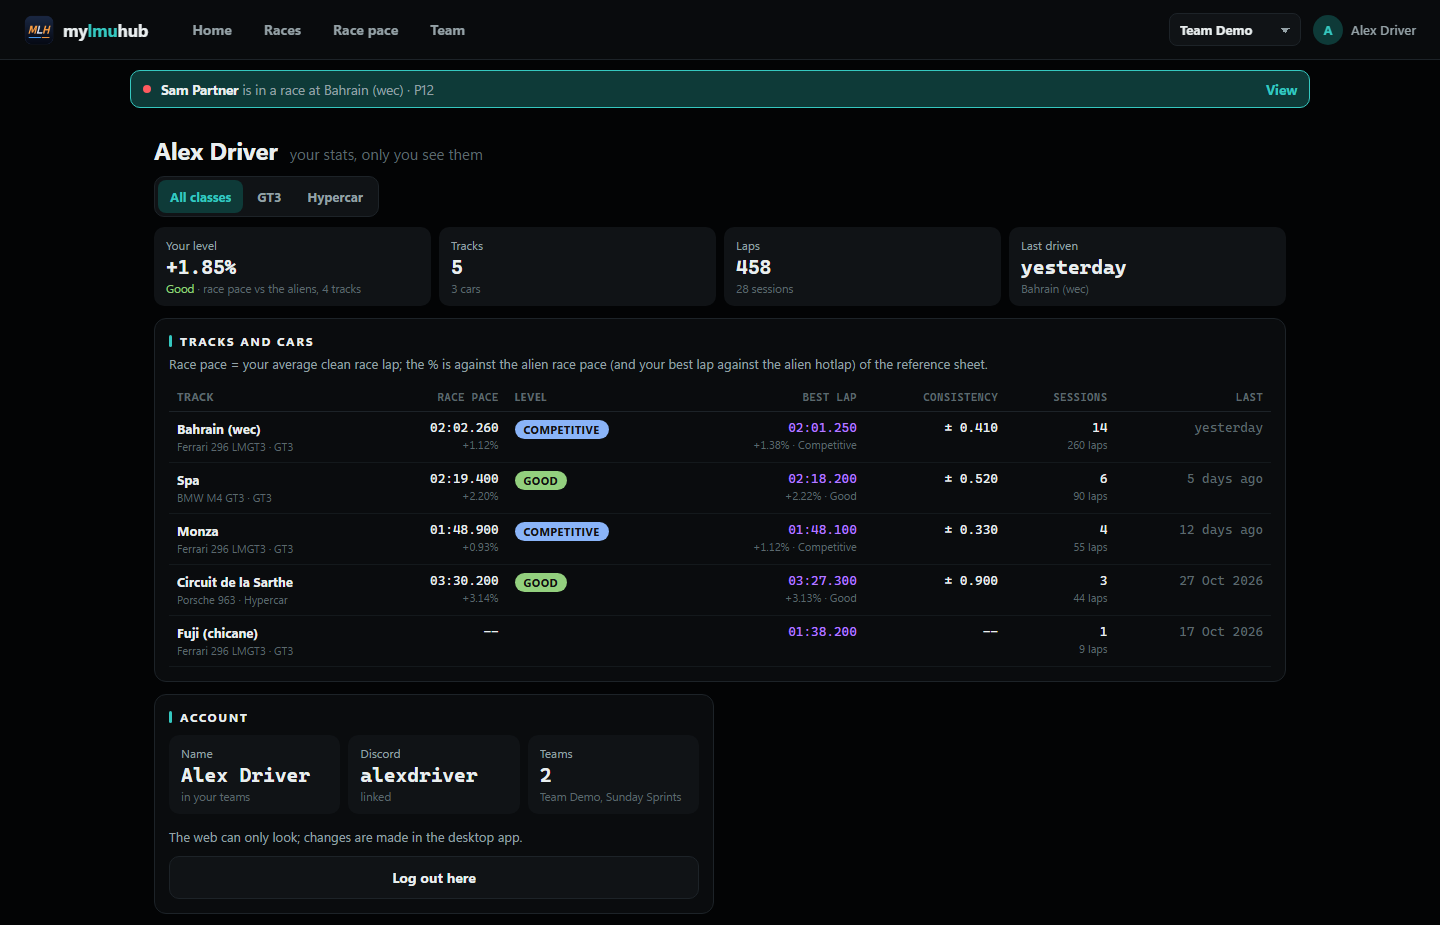
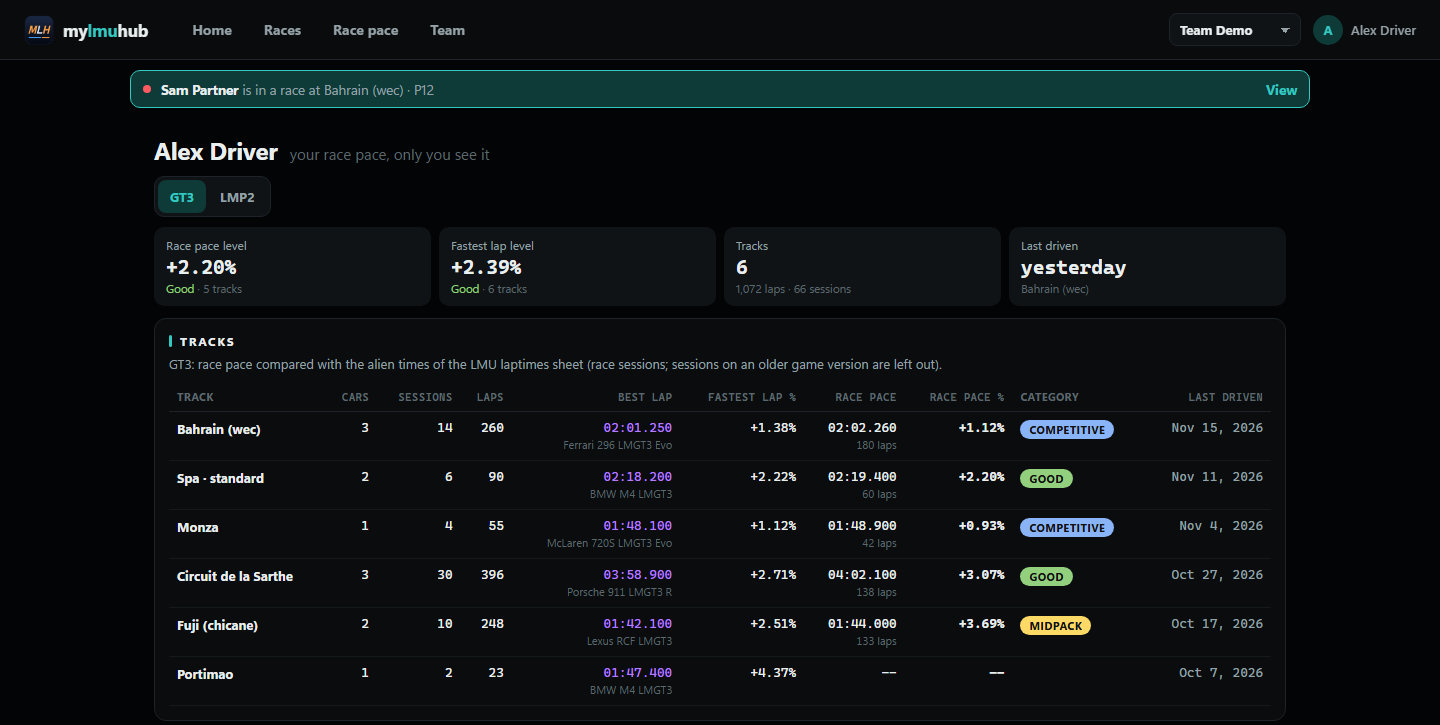
My stats like the desktop Race Pace page: per track and class
- The desktop app sends the Race Pace overview (every layout its own track, per class, race sessions,
  older game versions left out, the car of your fastest lap, how many cars)
- The website's Me page shows it the same way: class buttons, race pace and fastest lap level, one row per track

diff --git a/server/MyLMUHub.Server/wwwroot/js/app.js b/server/MyLMUHub.Server/wwwroot/js/app.js
@@ -274,28 +274,30 @@
     if (!mine) { view.innerHTML = '<div class="faint mt20">Loading...</div>'; get('/api/v1/me/pace').then(function (l) { mine = l || []; account(); }, function (e) { if (e.status === 401) login(); else { mine = []; account(); } }); return; }
     var ratio = function (t, b) { return t > 0 && b > 0 ? t / b : 0; };
     var catChip = function (r) { var k = R.category(r); return k ? '<span class="cat" data-bgc="' + k.color + '">' + esc(k.name) + '</span>' : ''; };
+    // as the desktop app's Race Pace page: one class at a time (the one you drove most first), a row per track; your level = the average % over its tracks
     var count = {}; mine.forEach(function (p) { var c = clsOf(p); count[c] = (count[c] || 0) + p.laps; });
     var classes = Object.keys(count).sort(function (a, b) { return count[b] - count[a]; });
-    if (myCls && !count[myCls]) myCls = '';
-    var rows = mine.filter(function (p) { return !myCls || clsOf(p) === myCls; }).sort(function (a, b) { return b.last - a.last; });
-    var h = '<div class="pagehead"><h1>' + esc(me.name) + '</h1><span class="faint">your stats, only you see them</span></div>';
+    if (!myCls || !count[myCls]) myCls = classes[0] || '';
+    var rows = mine.filter(function (p) { return clsOf(p) === myCls; }).sort(function (a, b) { return b.last - a.last; });
+    var h = '<div class="pagehead"><h1>' + esc(me.name) + '</h1><span class="faint">your race pace, only you see it</span></div>';
     if (!mine.length) h += card('My stats', '<div class="sub">No stats yet. The desktop app sends them by itself (Settings: <b>Keep my stats on the website</b>) the next time a hub page reads your results.</div>');
     else {
-      var lv = rows.map(function (p) { return p.clean >= 5 ? ratio(p.pace, p.refPace) : 0; }).filter(function (x) { return x > 0; }), avg = lv.length ? lv.reduce(function (t, x) { return t + x; }, 0) / lv.length : 0;
-      var tracks = {}, cars = {}, laps = 0, ses = 0; rows.forEach(function (p) { tracks[trackName(p.track)] = 1; cars[p.car] = 1; laps += p.laps; ses += p.sessions || 0; });
-      var k = R.category(avg);
-      h += '<div class="filters">' + segOf([['', 'All classes']].concat(classes.map(function (c) { return [c, clsLabel(c)]; })), myCls, 'data-mc') + '</div>';
-      h += '<div class="tiles tiles4">' + tile('Your level', avg ? F.pctOver(avg) : '--', avg ? '<span data-col="' + k.color + '">' + esc(k.name) + '</span> · race pace vs the aliens, ' + lv.length + (lv.length === 1 ? ' track' : ' tracks') : 'needs a reference + 5 counted laps') +
-        tile('Tracks', Object.keys(tracks).length, Object.keys(cars).length + (Object.keys(cars).length === 1 ? ' car' : ' cars')) + tile('Laps', F.count ? F.count(laps) : laps, ses ? ses + ' sessions' : '') +
-        tile('Last driven', rows.length ? ago(rows[0].last) : '--', rows.length ? esc(trackName(rows[0].track)) : '') + '</div>';
-      h += card('Tracks and cars', '<div class="sub">Race pace = your average clean race lap; the % is against the alien race pace (and your best lap against the alien hotlap) of the reference sheet.</div><div class="scroll"><table class="tbl"><thead><tr><th>Track</th><th class="num">Race pace</th><th>Level</th><th class="num">Best lap</th><th class="num">Consistency</th><th class="num">Sessions</th><th class="num">Last</th></tr></thead><tbody>' +
+      var mean = function (l) { return l.length ? l.reduce(function (t, x) { return t + x; }, 0) / l.length : 0; };
+      var pr = rows.map(function (p) { return p.clean >= 5 ? ratio(p.pace, p.refPace) : 0; }).filter(function (x) { return x > 0; }), hr = rows.map(function (p) { return ratio(p.best, p.refHot); }).filter(function (x) { return x > 0; });
+      var avg = mean(pr), avgQ = mean(hr), k = R.category(avg), q = R.category(avgQ), laps = 0, ses = 0; rows.forEach(function (p) { laps += p.laps; ses += p.sessions || 0; });
+      h += '<div class="filters">' + segOf(classes.map(function (c) { return [c, clsLabel(c)]; }), myCls, 'data-mc') + '</div>';
+      h += '<div class="tiles tiles4">' + tile('Race pace level', avg ? F.pctOver(avg) : '--', k ? '<span data-col="' + k.color + '">' + esc(k.name) + '</span> · ' + pr.length + (pr.length === 1 ? ' track' : ' tracks') : 'needs a reference + 5 counted laps') +
+        tile('Fastest lap level', avgQ ? F.pctOver(avgQ) : '--', q ? '<span data-col="' + q.color + '">' + esc(q.name) + '</span> · ' + hr.length + (hr.length === 1 ? ' track' : ' tracks') : '') +
+        tile('Tracks', rows.length, F.count(laps) + ' laps · ' + ses + ' sessions') +
+        tile('Last driven', rows.length ? ago(rows[0].last) : '--', rows.length ? esc(rows[0].track) : '') + '</div>';
+      h += card('Tracks', '<div class="sub">' + esc(clsLabel(myCls)) + ': race pace compared with the alien times of the LMU laptimes sheet (race sessions; sessions on an older game version are left out).</div>' +
+        '<div class="scroll"><table class="tbl"><thead><tr><th>Track</th><th class="num">Cars</th><th class="num">Sessions</th><th class="num">Laps</th><th class="num">Best lap</th><th class="num">Fastest lap %</th><th class="num">Race pace</th><th class="num">Race pace %</th><th>Category</th><th class="num">Last driven</th></tr></thead><tbody>' +
         rows.map(function (p) {
-          var pr = p.clean >= 5 ? ratio(p.pace, p.refPace) : 0, hr = ratio(p.best, p.refHot);
-          return '<tr><td><b>' + esc(trackName(p.track)) + '</b><span class="two">' + esc(p.car) + ' · ' + esc(clsLabel(clsOf(p))) + '</span></td>' +
-            '<td class="num">' + lap(p.pace) + '<span class="two">' + (pr ? F.pctOver(pr) : p.pace > 0 && !p.refPace ? 'no reference' : p.pace > 0 ? p.clean + ' counted laps' : '') + '</span></td>' +
-            '<td>' + catChip(pr) + '</td>' +
-            '<td class="num purple">' + lap(p.best) + '<span class="two">' + (hr ? F.pctOver(hr) + ' · ' + esc(R.category(hr).name) : '') + '</span></td>' +
-            '<td class="num">' + (p.sd > 0 ? '± ' + p.sd.toFixed(3) : '--') + '</td><td class="num">' + (p.sessions || '--') + '<span class="two">' + p.laps + ' laps</span></td><td class="num faint">' + esc(ago(p.last)) + '</td></tr>';
+          var r1 = p.clean >= 5 ? ratio(p.pace, p.refPace) : 0, r2 = ratio(p.best, p.refHot);
+          return '<tr><td><b>' + esc(p.track) + '</b>' + (p.refPace || p.refHot ? '' : '<span class="two">not in the sheet</span>') + '</td><td class="num">' + (p.cars || 1) + '</td><td class="num">' + (p.sessions || '--') + '</td><td class="num">' + F.count(p.laps) + '</td>' +
+            '<td class="num purple">' + lap(p.best) + '<span class="two">' + esc(p.car) + '</span></td><td class="num">' + (r2 ? F.pctOver(r2) : '--') + '</td>' +
+            '<td class="num">' + lap(p.pace) + '<span class="two">' + (p.clean ? p.clean + ' laps' : '') + '</span></td><td class="num"><b>' + (r1 ? F.pctOver(r1) : '--') + '</b></td>' +
+            '<td>' + catChip(r1) + '</td><td class="num muted">' + esc(F.day(p.last)) + '</td></tr>';
         }).join('') + '</tbody></table></div>');
     }
     h += '<div class="cols">' + card('Account', '<div class="tiles">' + tile('Name', esc(me.name), 'in your teams') + tile('Discord', me.discord ? esc(me.discord) : '--', me.discord ? 'linked' : 'link it in the desktop app') +

diff --git a/src/MyLMUHub.App/wwwroot/js/hub.js b/src/MyLMUHub.App/wwwroot/js/hub.js
@@ -123,8 +123,9 @@
     }, function (e) { done({ error: String(e), sessions: [], names: [], candidates: [] }); });
   }
 
-  // My stats on the website (2026-11-16): your own race pace sheet, per track + car (as the Team tab shares it) with the alien race pace and hotlap of that track
-  // + class (the reference sheet) and how many sessions; sent to the team server only when it changed (Settings: on by default; only you see it there).
+  // My stats on the website (2026-11-16): the Race Pace page's overview (pace.js, its default view: race sessions, all time, current game version), one row
+  // per track (every layout its own track) and class, with the alien race pace and hotlap of the reference sheet; the car = your fastest car there.
+  // Sent to the team server only when it changed (Settings: on by default; only you see it there).
   // Not while a guest drives (the pages then show his files). Pages without the pace maths (pace-ref.js, pace-math.js) send nothing.
   var mineBusy = false;
   function shareMine(data) {
@@ -135,14 +136,24 @@
       if (a[0] && a[0].current) return;
       var ref = a[1] && a[1].csv ? R.parse(a[1].csv) : {};
       var refFor = function (s, cls) { var t = ref[R.trackName(s.track, s.layout)], c = R.className(cls); return t && c ? t[c] || null : null; };
-      var list = data.sessions.filter(function (s) { return !s.live; }), cur = null;
-      list.forEach(function (s) { var m = R.major(s.version); if (m && (!cur || m > cur)) cur = m; });
-      var old = function (s) { var rf = refFor(s, s['class']); return R.isOld(s.version, rf && rf.patch, cur); };
-      var rows = M.groups(list).slice(0, 400).map(function (g) {
-        var now = g.sessions.filter(function (s) { return !old(s); }), c = M.combine(now.length ? now : g.sessions, 0.05, ['Race']).dry, rf = refFor(g.sessions[0], g.cls);
-        return { track: g.track, car: g.car, cls: g.cls || '', best: c.best || 0, optimal: c.optimal || 0, pace: c.clean >= 3 ? c.pace : 0, sd: c.clean >= 3 && c.sd > 0 ? c.sd : 0, clean: c.clean || 0, laps: c.laps || 0,
-                 last: g.last, refPace: rf && rf.race && rf.race[0] > 0 ? rf.race[0] : 0, refHot: rf && rf.hot > 0 ? rf.hot : 0, sessions: g.sessions.length };
-      }).filter(function (r) { return r.track && r.car && r.laps > 0 && r.last > 1400000000; });
+      var all = data.sessions, cur = null;
+      all.forEach(function (s) { var m = R.major(s.version); if (m && (!cur || m > cur)) cur = m; });
+      var list = all.filter(function (s) { var rf = refFor(s, s['class']); return !R.isOld(s.version, rf && rf.patch, cur); });
+      var by = function (l, kf) { var m = {}, out = []; l.forEach(function (s) { var k = kf(s); if (!m[k]) { m[k] = { key: k, sessions: [], last: 0, laps: 0 }; out.push(m[k]); } m[k].sessions.push(s); m[k].last = Math.max(m[k].last, s.time); m[k].laps += s.laps.length; }); return out; };
+      var tracks = by(list, function (s) { return R.trackKey(s.track, s.layout); }), per = {};
+      tracks.forEach(function (t) { var s0 = t.sessions[t.sessions.length - 1]; t.base = R.trackName(s0.track, s0.layout) || s0.track; t.layout = s0.layout; per[t.base] = (per[t.base] || 0) + 1; });
+      var rows = [];
+      tracks.forEach(function (t) {
+        var name = per[t.base] > 1 && t.layout ? t.base + ' · ' + R.variantLabel(t.base, t.layout) : t.base;
+        by(t.sessions, function (s) { return s['class']; }).forEach(function (c) {
+          var d = M.combine(c.sessions, 0.05, ['Race']).dry, rf = refFor(c.sessions[0], c.key), bc = null;
+          by(c.sessions, function (s) { return s.car; }).forEach(function (k) { k.best = M.combine(k.sessions, 0.05, ['Race']).dry.best; if (k.best && (!bc || k.best < bc.best)) bc = k; });
+          var nc = {}; c.sessions.forEach(function (s) { nc[s.car] = 1; });
+          rows.push({ track: name.slice(0, 80), car: (bc ? bc.key : c.sessions[0].car || '?').slice(0, 80), cls: c.key || '', best: d.best || 0, optimal: d.optimal || 0, pace: d.pace || 0, sd: d.sd > 0 ? d.sd : 0,
+                      clean: d.clean || 0, laps: c.laps, last: c.last, refPace: rf && rf.race && rf.race[0] > 0 ? rf.race[0] : 0, refHot: rf && rf.hot > 0 ? rf.hot : 0, sessions: c.sessions.length, cars: Object.keys(nc).length });
+        });
+      });
+      rows = rows.filter(function (r) { return r.track && r.car && r.laps > 0 && r.last > 1400000000; }).sort(function (a, b) { return b.last - a.last; }).slice(0, 400);
       var sig = JSON.stringify(rows), h = sig.length + ':' + sig.slice(-300), old2 = null;
       try { old2 = localStorage.getItem('pw-my-pace'); } catch (e) {}
       if (old2 === h) return;

diff --git a/server/MyLMUHub.Server/Store.cs b/server/MyLMUHub.Server/Store.cs
@@ -38,6 +38,7 @@ public sealed partial class Store
         // added later (2026-11-16): every lap of a race (kept apart: the list of results stays small), consistency per pace row
         if (Convert.ToInt64(Scalar(c, "SELECT COUNT(*) FROM pragma_table_info('results') WHERE name = 'laps'")) == 0) Exec(c, "ALTER TABLE results ADD COLUMN laps TEXT");
         if (Convert.ToInt64(Scalar(c, "SELECT COUNT(*) FROM pragma_table_info('pace') WHERE name = 'sd'")) == 0) Exec(c, "ALTER TABLE pace ADD COLUMN sd REAL");
+        if (Convert.ToInt64(Scalar(c, "SELECT COUNT(*) FROM pragma_table_info('my_pace') WHERE name = 'cars'")) == 0) Exec(c, "ALTER TABLE my_pace ADD COLUMN cars INTEGER NOT NULL DEFAULT 0");
         WebSchema(c);                                                                         // the website: phone logins, pairing codes, Discord (Store.Web.cs)
     }
 
@@ -179,18 +180,18 @@ public sealed partial class Store
         using var c = Open(); using var tx = c.BeginTransaction();
         Exec(c, "DELETE FROM my_pace WHERE user_id = $u", ("$u", user));
         foreach (var r in rows)
-            Exec(c, "INSERT OR REPLACE INTO my_pace (user_id, track, car, cls, best, optimal, pace, sd, clean, laps, last, ref_pace, ref_hot, sessions) VALUES ($u, $tr, $car, $cls, $b, $o, $p, $sd, $cl, $l, $last, $rp, $rh, $n)",
+            Exec(c, "INSERT OR REPLACE INTO my_pace (user_id, track, car, cls, best, optimal, pace, sd, clean, laps, last, ref_pace, ref_hot, sessions, cars) VALUES ($u, $tr, $car, $cls, $b, $o, $p, $sd, $cl, $l, $last, $rp, $rh, $n, $cars)",
                 ("$u", user), ("$tr", r.Track), ("$car", r.Car), ("$cls", r.Cls), ("$b", r.Best > 0 ? r.Best : null), ("$o", r.Optimal > 0 ? r.Optimal : null), ("$p", r.Pace > 0 ? r.Pace : null),
-                ("$sd", r.Sd > 0 ? r.Sd : null), ("$cl", r.Clean), ("$l", r.Laps), ("$last", r.Last), ("$rp", r.RefPace > 0 ? r.RefPace : null), ("$rh", r.RefHot > 0 ? r.RefHot : null), ("$n", r.Sessions));
+                ("$sd", r.Sd > 0 ? r.Sd : null), ("$cl", r.Clean), ("$l", r.Laps), ("$last", r.Last), ("$rp", r.RefPace > 0 ? r.RefPace : null), ("$rh", r.RefHot > 0 ? r.RefHot : null), ("$n", r.Sessions), ("$cars", r.Cars));
         tx.Commit();
     }
     public List<PaceRow> MyPace(long user)
     {
-        using var c = Open(); using var cmd = Cmd(c, "SELECT track, car, cls, best, optimal, pace, sd, clean, laps, last, ref_pace, ref_hot, sessions FROM my_pace WHERE user_id = $u ORDER BY last DESC", ("$u", user));
+        using var c = Open(); using var cmd = Cmd(c, "SELECT track, car, cls, best, optimal, pace, sd, clean, laps, last, ref_pace, ref_hot, sessions, cars FROM my_pace WHERE user_id = $u ORDER BY last DESC", ("$u", user));
         using var r = cmd.ExecuteReader(); var l = new List<PaceRow>();
         double D(int i) => r.IsDBNull(i) ? 0 : r.GetDouble(i);
         while (r.Read()) l.Add(new PaceRow { Track = r.GetString(0), Car = r.GetString(1), Cls = r.GetString(2), Best = D(3), Optimal = D(4), Pace = D(5), Sd = D(6), Clean = r.GetInt32(7), Laps = r.GetInt32(8),
-            Last = r.GetInt64(9), RefPace = D(10), RefHot = D(11), Sessions = r.GetInt32(12) });
+            Last = r.GetInt64(9), RefPace = D(10), RefHot = D(11), Sessions = r.GetInt32(12), Cars = r.GetInt32(13) });
         return l;
     }
     public List<(long User, string Name, PaceRow Row)> Pace(long team)

diff --git a/server/MyLMUHub.Server/Requests.cs b/server/MyLMUHub.Server/Requests.cs
@@ -47,7 +47,7 @@ public sealed class PaceRow
     public double Best { get; set; } public double Optimal { get; set; } public double Pace { get; set; } public int Clean { get; set; } public int Laps { get; set; } public long Last { get; set; }
     public double Sd { get; set; }                   // consistency: standard deviation of the clean race laps (s), 0 = not known; optional
     // My stats only (POST /api/v1/me/pace; optional, 0 = not known): the alien race pace and hotlap of this track + class from the reference sheet, and how many sessions
-    public double RefPace { get; set; } public double RefHot { get; set; } public int Sessions { get; set; }
+    public double RefPace { get; set; } public double RefHot { get; set; } public int Sessions { get; set; } public int Cars { get; set; }
 }
 public sealed class ResultDriver { public string Name { get; set; } public int Laps { get; set; } public double Best { get; set; } public double Avg { get; set; } }
 public sealed class ResultStint { public string Driver { get; set; } public int Laps { get; set; } public double Avg { get; set; } public double Best { get; set; } }
@@ -94,10 +94,10 @@ public static class Check
             if (tr == null || car == null || cls == null) return (null, "text");
             bool T(double v) => v == 0 || Num(v, 20, 1800);
             if (!T(x.Best) || !T(x.Optimal) || !T(x.Pace) || !(x.Sd == 0 || Num(x.Sd, 0.001, 60)) || !Int(x.Clean, 0, 1_000_000) || !Int(x.Laps, 0, 1_000_000) || x.Last < 1_400_000_000 || x.Last > now + 86400) return (null, "numbers");
-            if (!T(x.RefPace) || !T(x.RefHot) || !Int(x.Sessions, 0, 1_000_000)) return (null, "numbers");
+            if (!T(x.RefPace) || !T(x.RefHot) || !Int(x.Sessions, 0, 1_000_000) || !Int(x.Cars, 0, 1000)) return (null, "numbers");
             if (!seen.Add(tr + "|" + car)) continue;
             l.Add(new PaceRow { Track = tr, Car = car, Cls = cls, Best = Math.Round(x.Best, 3), Optimal = Math.Round(x.Optimal, 3), Pace = Math.Round(x.Pace, 3), Sd = Math.Round(x.Sd, 3), Clean = x.Clean, Laps = x.Laps, Last = x.Last,
-                RefPace = Math.Round(x.RefPace, 3), RefHot = Math.Round(x.RefHot, 3), Sessions = x.Sessions });
+                RefPace = Math.Round(x.RefPace, 3), RefHot = Math.Round(x.RefHot, 3), Sessions = x.Sessions, Cars = x.Cars });
         }
         return (l, null);
     }

diff --git a/src/MyLMUHub.App/TeamClient.cs b/src/MyLMUHub.App/TeamClient.cs
@@ -169,7 +169,7 @@ public sealed class TeamClient
                 {
                     track = S(r, "track"), car = S(r, "car"), cls = S(r, "cls") ?? "", best = D(r, "best"), optimal = D(r, "optimal"), pace = D(r, "pace"), sd = D(r, "sd"),
                     clean = (int)Math.Max(0, L(r, "clean")), laps = (int)Math.Max(0, L(r, "laps")), last = L(r, "last"),
-                    refPace = D(r, "refPace"), refHot = D(r, "refHot"), sessions = (int)Math.Max(0, L(r, "sessions"))
+                    refPace = D(r, "refPace"), refHot = D(r, "refHot"), sessions = (int)Math.Max(0, L(r, "sessions")), cars = (int)Math.Max(0, L(r, "cars"))
                 }).ToArray() });
             }
             case "liveShare":

diff --git a/server/MyLMUHub.Server/Program.cs b/server/MyLMUHub.Server/Program.cs
@@ -224,7 +224,7 @@ public static class Server
         {
             var me = Me(ctx); if (me == null) return Err(401, "no key");
             return Results.Json(store.MyPace(me.Id).Select(x => new { track = x.Track, car = x.Car, cls = x.Cls, best = x.Best, optimal = x.Optimal, pace = x.Pace, sd = x.Sd, clean = x.Clean, laps = x.Laps,
-                last = x.Last, refPace = x.RefPace, refHot = x.RefHot, sessions = x.Sessions }));
+                last = x.Last, refPace = x.RefPace, refHot = x.RefHot, sessions = x.Sessions, cars = x.Cars }));
         });
 
         Web.Map(app, store, KeyUser, log);                                                   // logging in on a phone, Discord (Web.cs)

diff --git a/README.md b/README.md
@@ -177,7 +177,7 @@ The team server is also a website (e.g. **mylmuhub.com**), made for phones and c
 - **Home:** your team at a glance: the latest race, your race pace against the team's best on your last tracks. More than one team: pick it in the top bar.
 - **Races:** every team race with its full review (stints, laps, what we see, what if). **Race pace:** everyone's pace per track and car. **Team:** the members.
 - **Live:** when a team-mate is racing, a banner says so on every page; tap it for their position, lap times, stint, virtual energy, the car (tyres, damage) and the laps.
-- **Me, your own stats:** your race pace per track and car with your level against the alien times (Competitive, Good, ...), best laps, consistency, sessions.
+- **Me, your own stats:** the desktop app's Race Pace overview: per class, every track with your best lap and race pace against the alien times (Competitive, Good, ...), your level, cars, sessions and laps.
   Only you see them. The desktop app keeps them up to date by itself (Settings: *Keep my stats on the website*; off = deleted from the server).
 - **The website can only look:** changes are only made in the desktop app. Log out every phone from Settings at any time.
 
